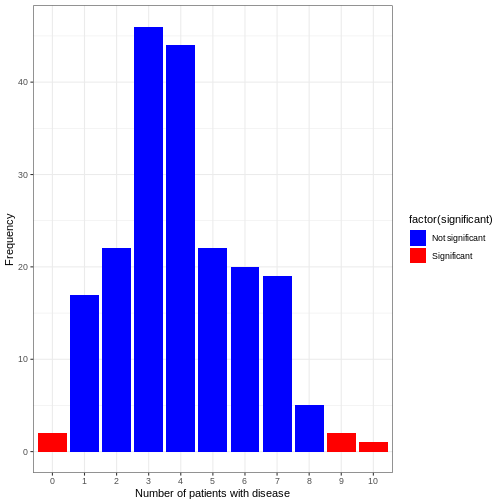
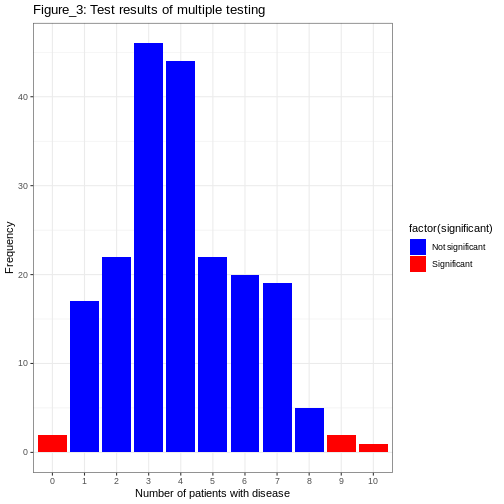
markdown source builds
Auto-generated via {sandpaper}
Source  : 89a25b934d1956e729a5a58fa9fc6552edf71bc3
Branch  : main
Author  : carolynmukirikambona <carolynmukiri@yahoo.com>
Time    : 2024-05-24 11:56:54 +0000
Message : until 24th may

diff --git a/Summary.md b/Summary.md
@@ -1,0 +1,34 @@
+---
+title: 'Summary'
+teaching: 10
+exercises: 2
+---
+# Error rates
+
+We have seen that when dealing with multiple testing, it is crucial to understand the different types of error rates that can be controlled. __Comparison-Wise Error Rate (CWER)__, which is the probability of making a Type I error (false positive) in any single hypothesis test, does not account for the multiplicity of tests and can lead to an increased number of false positives when many tests are performed. __Family-Wise Error Rate (FWER)__, the probability of making at least one Type I error among all the hypothesis tests, is a stringent error rate control method, suitable for situations where even one false positive is highly problematic. Methods like the Bonferroni correction and Holm’s are often used to control FWER. __False Discovery Rate (FDR)__, the expected proportion of Type I errors among the rejected hypotheses, is less conservative than FWER and is useful in large-scale testing scenarios, like genomic studies, where some false positives are tolerable in exchange for higher power to detect true positives. The Benjamini-Hochberg procedure is a common method to control the FDR.
+
+# Choosing the appropriate error rate
+
+The choice of error rate to control depends on the research question and the context of the study. For example, we could choose to control CWER when testing the efficacy of a single new drug against a placebo in a clinical trial, or when performing a single regression analysis to test the relationship between two variables.
+
+One would consider controlling FWER in clinical trials involving multiple endpoints, where any false positive could lead to incorrect conclusions about the drug's safety or efficacy. in addition, psychological experiments where multiple outcomes are tested and any false positive could mislead theoretical interpretations would consider controlling FWER.
+
+The choise for controlling FDR is often considered in genome-wide association studies (GWAS) analyzing thousands of genetic variants simultaneously to identify potential associations with a disease, or in RNA-Seq experiments aiming to identify differentially expressed genes among tens of thousands of genes.
+
+
+# A Cook book to navigate multiple testing effectively
+
+To navigate multiple testing effectively, we should:
+
+1. start by __clearly defining our research question__, stating the specific hypothesis or set of hypotheses we aim to test, and considering the implications of potential false positives and false negatives. 
+
+2. Next, we __decide on the appropriate error rate to control__, based on our research context and tolerance for Type I errors. this means assessing how critical it is to avoid any false positives (favoring FWER) versus allowing some false positives to increase detection power (favoring FDR). 
+
+3. Finally, we __select a suitable statistical method that controls our chosen error rate__ and aligns with our data type and experimental design, ensuring it is well-suited to the specifics of our study.
+
+:::::::::::::::::::::::::::::::::::::::::::::::::::::::::::::::::::: instructor
+
+Inline instructor notes can help inform instructors of timing challenges
+associated with the lessons. They appear in the "Instructor View"
+
+::::::::::::::::::::::::::::::::::::::::::::::::::::::::::::::::::::::::::::::::

diff --git a/What is multiple testing.md b/What is multiple testing.md
@@ -20,7 +20,7 @@ exercises: 2
 
 Suppose the prevalence of a disease in the general population is 4%. In this population, lives a group of individuals who have all been exposed to air pollution. Concerned about their health, we decide to embark on a quest to uncover whether being exposed to air pollution influenced the risk of contracting this disease.
 
-![Disease Prevalence in a population- Illustrating the Proportion of Individuals Affected by the disease as 4% of the Population](fig/01-Disease-prevalence.png)
+![Figure_1: Disease Prevalence in a population- Illustrating the Proportion of Individuals Affected by the disease as 4% of the Population](fig/01-Disease-prevalence.png)
 
 ## Setting the null and alternative hypothesis
 
@@ -71,7 +71,7 @@ We therefore decide to simulate the scenario where we conduct 200 tests, each wi
 
 Our null hypothesis in each location is that there is no real difference in disease rates between the groups exposed to air pollution and the average for the whole population.
 
-![Scenario: 100 individuals get tested for a disease. The disease prevalence is 0.04. The experiment is repeated 200 times](fig/Scenario_100 individuals get tested for a disease. The disease prevalence is 0.04. The experiment is repeated 200 times.png)
+![Figure_2: A Scenario where 100 individuals get tested for a disease. The disease prevalence is 0.04. The experiment is repeated 200 times](fig/Scenario_100 individuals get tested for a disease. The disease prevalence is 0.04. The experiment is repeated 200 times.png)
 
 To do this, we write a program in R, which simulates study results when the prevalence in the test group is 4% (null hypothesis is true). We run these experiments to see what would happen if we kept doing tests even when there was not actually any difference. 
 
@@ -93,14 +93,13 @@ data <- table(rbinom(n=200, size=100, prob=0.04)) %>%
   mutate(significant = ifelse(number < qbinom(0.025, size=100, prob=0.04) | number > qbinom(0.975, size=100, prob=0.04), 1, 0))
 
 # Plot the data
-Figure_3=data %>%
+data %>%
   ggplot(aes(Var1, Freq, fill = factor(significant))) +
   geom_col() +
   theme_bw() +
-  labs(x = "Number of patients with disease", y = "Frequency") +
+  labs(title="Figure_3: Test results of multiple testing ", x = "Number of patients with disease", y = "Frequency") +
   scale_fill_manual(values = c("0" = "blue", "1" = "red"),
                     labels = c("Not significant", "Significant"))
-Figure_3
 ```
 
 <img src="fig/What is multiple testing-rendered-Simulating 200 test groups-1.png" style="display: block; margin: auto;" />

diff --git a/References.md b/References.md
@@ -1,0 +1,31 @@
+---
+title: 'References'
+teaching: 10
+exercises: 2
+---
+# Books 
+
+- Westfall, P. H., & Young, S. S. (1993). Resampling-based multiple testing: Examples and methods for p-value adjustment (Vol. 279). John Wiley & Sons.
+- Hochberg, Y. (1987). Multiple comparison procedures. Wiley Series in Probability and Statistics.
+- Dudoit, S., Van Der Laan, M. J., & van der Laan, M. J. (2008). Multiple testing procedures with applications to genomics (pp. XXXIII-588). New York: Springer.
+
+# Articles
+
+- Benjamini, Y., & Hochberg, Y. (1995). Controlling the false discovery rate: a practical and powerful approach to multiple testing. Journal of the Royal statistical society: series B (Methodological), 57(1), 289-300..
+- Holm, S. (1979). A simple sequentially rejective multiple test procedure. Scandinavian journal of statistics, 65-70.
+- Shaffer, J. P. (1995). Multiple hypothesis testing. Annual review of psychology, 46(1), 561-584.
+- Storey, J. D., & Tibshirani, R. (2003). Statistical significance for genomewide studies. Proceedings of the National Academy of Sciences, 100(16), 9440-9445.
+- Pollard, K. S., Dudoit, S., & van der Laan, M. J. (2005). Multiple testing procedures: the multtest package and applications to genomics. In Bioinformatics and computational biology solutions using R and bioconductor (pp. 249-271). New York, NY: Springer New York.
+
+# Online Resources
+
+- [Introduction to multiple testing]("https://biodatascience.github.io/compbio/test/multtest.html")
+
+- [sgof: An R Package for Multiple Testing Problems]("https://journal.r-project.org/archive/2014/RJ-2014-027/RJ-2014-027.pdf")
+
+:::::::::::::::::::::::::::::::::::::::::::::::::::::::::::::::::::: instructor
+
+Inline instructor notes can help inform instructors of timing challenges
+associated with the lessons. They appear in the "Instructor View"
+
+::::::::::::::::::::::::::::::::::::::::::::::::::::::::::::::::::::::::::::::::

diff --git a/Types of errors.md b/Types of errors.md
@@ -54,6 +54,8 @@ Cancer screening exemplifies a medical testing paradox, where the interpretation
 Let us say that in a sample of 1000 women, 1% (10) have cancer, while the remaining 99% (990) do not have cancer. This gives us the prevalence of a disease. However, after testing, the test results show that out of the 10 women with cancer, 9 receive a __true positive__ result (correctly identified as positive), and 1 receives a __false negative__ result (incorrectly identified as negative). False negatives can delay the diagnosis and treatment of cancer, allowing the disease to progress unchecked and potentially reducing the effectiveness of treatment options. This can result in poorer outcomes and decreased survival rates for patients.
 In addition, out of the 990 women without cancer, 89 receive __false positive__ results (incorrectly identified as positive), and 901 receive __true negative__ results (correctly identified as negative). False positive can lead to unnecessary follow-up tests, procedures, and treatments for individuals who do not have cancer. It can cause anxiety, physical discomfort, and financial burden for patients, as well as strain on healthcare resources.
 
+![Figure_5: A tree diagram describing the outcomes of a breast cancer test](fig/cancer paradox.png)
+
 We could interpret that:
 
 - The __probability__ that a woman who receives a positive result actually has cancer is ≈ 1/10 (9/ (9 + 89)). This is the positive predictive value (PPV) of the test. 

diff --git a/Family-wise error rate.md b/Family-wise error rate.md
@@ -45,8 +45,9 @@ The three null hypotheses can be combined to the following overall null hypothes
 As soon as one of the individual null hypotheses is rejected, we also reject the overall null hypothesis. Therefore, we'll want to make sure that we have not a single false positive among our individual hypothesis tests.
 :::::::::::::::::::::::
 
-![Relationship between Overall Hypothesis and Individual Hypotheses: Effects of Air Pollution on Disease
-Prevalence"](fig/Relationship between Overall Hypothesis and Individual Hypotheses. Effects of Air Pollution on Rdisease prevalence.png)
+![Figure_6: Relationship between Overall Hypothesis and Individual Hypotheses (Effects of Air Pollution on Disease
+Prevalence)](fig/Relationship between Overall Hypothesis and Individual Hypotheses. Effects of Air Pollution on Rdisease prevalence.png)
+
 
 In this illustration, each individual hypothesis delves into a distinct facet of the overarching research inquiry, enabling researchers to thoroughly examine the intricate connection between air pollution exposure and disease prevalence. By scrutinizing the impacts of various air pollutants on the disease, this method encourages a systematic exploration of diverse factors and aids in revealing potential associations or patterns within the data set.
 

diff --git a/False discovery rate.md b/False discovery rate.md
@@ -46,7 +46,7 @@ p_values <- c(p_values, rbeta(1000, 0.5, 1)) # 5% of p-values are drawn from a b
 # Histogram of p-values
 ggplot(data.frame(p_values), aes(x = p_values)) +
   geom_histogram(bins = 50, fill = "lightblue", color = "black") +
-  labs(title = "P-value Histogram", x = "P-value", y = "Frequency")
+  labs(title = "Figure_7: P-value Histogram", x = "P-value", y = "Frequency")
 ```
 
 <img src="fig/False discovery rate-rendered-unnamed-chunk-2-1.png" style="display: block; margin: auto;" />
@@ -119,14 +119,10 @@ We will continue with our simulated p-values for 20,000 genes i to apply the Ben
 p_adjusted <- p.adjust(p_values, method = "BH")
 
 # Plotting the adjusted p-values
-ggplot(data.frame(p_adjusted), aes(x = p_adjusted)) +
+Figure_8<-ggplot(data.frame(p_adjusted), aes(x = p_adjusted)) +
   geom_histogram(bins = 50, fill = "lightblue", color = "black") +
   labs(title = "Adjusted P-value Histogram", x = "Adjusted P-value", y = "Frequency")
-```
 
-<img src="fig/False discovery rate-rendered-unnamed-chunk-4-1.png" style="display: block; margin: auto;" />
-
-```r
 significant_bh <- p_adjusted < alpha
 
 sum(significant_bh) # Number of significant hits after Benjamini-Hochberg correction
